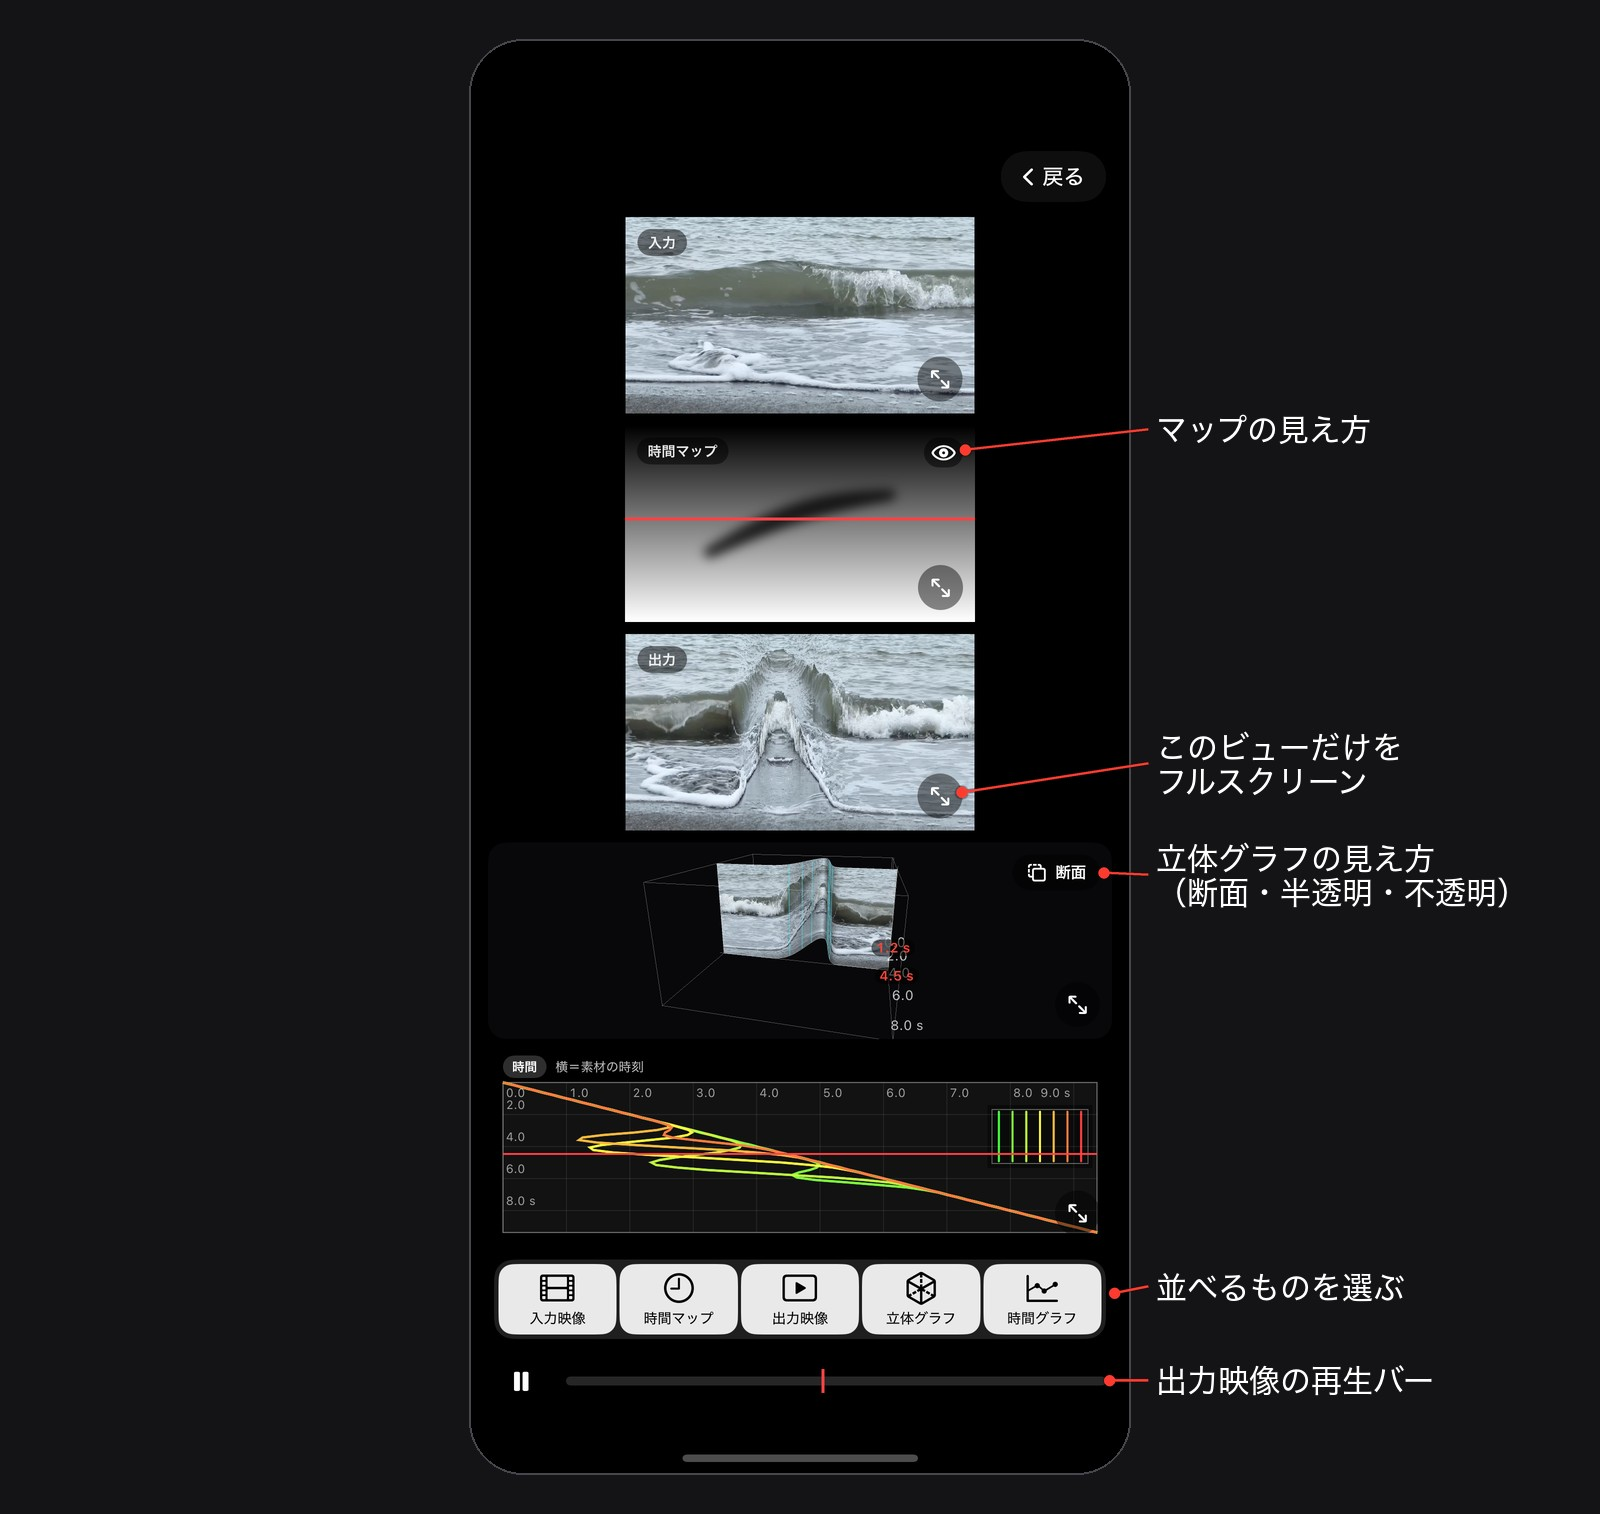
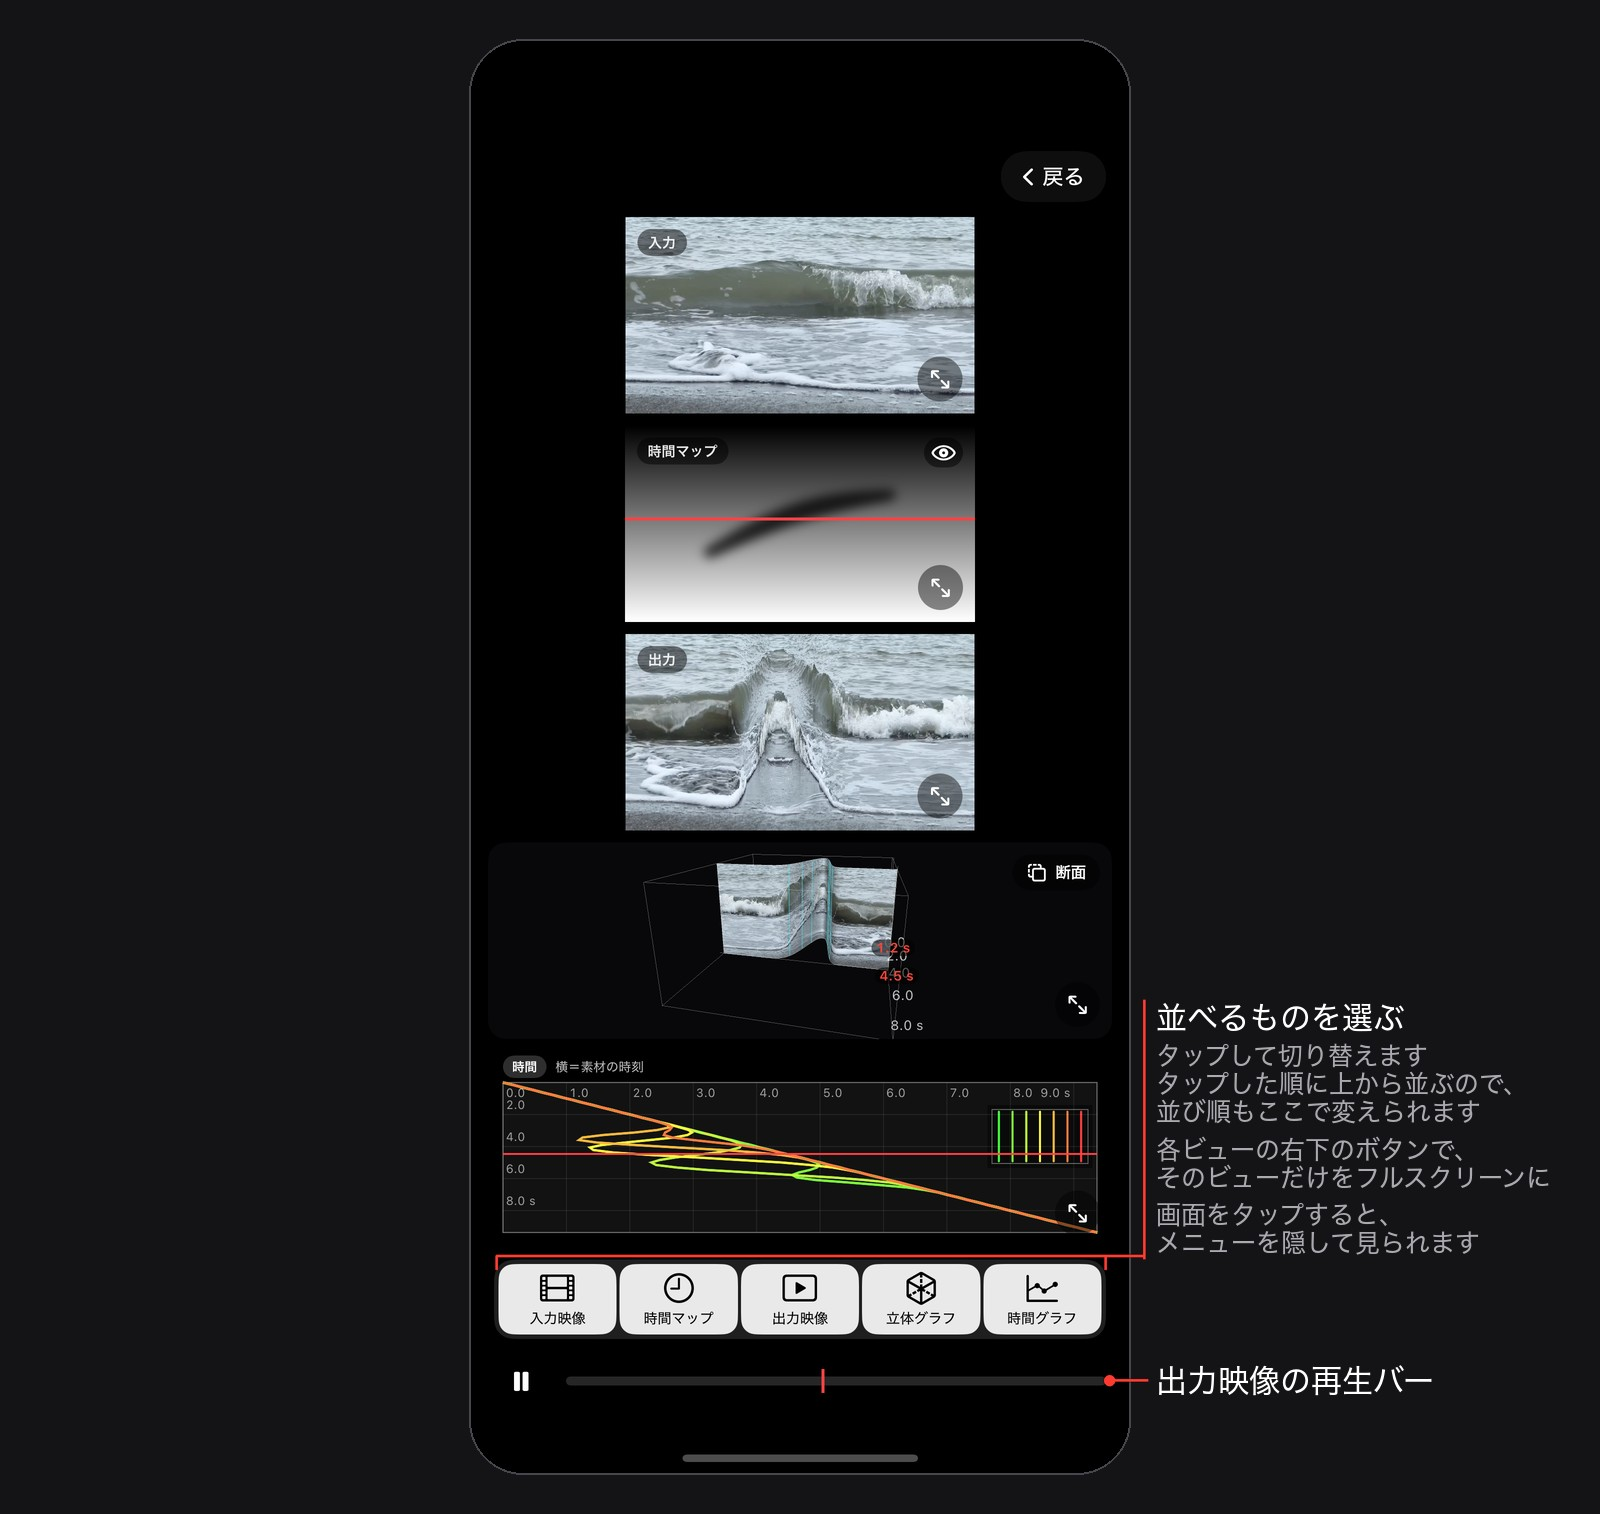
案内図: 編集画面の上の段を一覧にして選択肢を添える、モニタービューは並べるものの説明だけに（配信後に公開）

diff --git a/index.html b/index.html
@@ -108,7 +108,7 @@
   
 
 
-<figure class="guide"><a href="shots/guide/monitor_ja.jpg"><img src="shots/guide/monitor_ja.jpg" alt="モニタービューのボタンの名前を赤い線で示した図。入力映像、時間マップ、出力映像、立体グラフ、時間グラフをすべて並べている" loading="lazy"></a><figcaption>モニタービュー（押すと大きく開きます）</figcaption></figure>
+<figure class="guide"><a href="shots/guide/monitor_ja.jpg"><img src="shots/guide/monitor_ja.jpg" alt="モニタービューの図。入力映像、時間マップ、出力映像、立体グラフ、時間グラフをすべて並べ、下のメニューで並べるものを選ぶ説明を添えている" loading="lazy"></a><figcaption>モニタービュー（押すと大きく開きます）</figcaption></figure>
 <div class="gallery">
   <figure><img src="shots/v15/ja/input_full.png" alt="入力映像の全画面表示。下に読み込みの情報、使用範囲のバー、秒数が並ぶ" loading="lazy"><figcaption>入力の全画面。情報をタップすると読み込みの設定が開きます</figcaption></figure>
   <figure><img src="shots/v16/ja/volume.png" alt="出力の全画面で立体グラフをオンにしたところ。上に出力映像、下に素材の箱の中で斜めに傾いた面と秒数の目盛り" loading="lazy"><figcaption>立体グラフ。縦スリット×時間マップの「左→右」では、左ほど前の瞬間を映すので面が斜めに傾きます</figcaption></figure>
@@ -538,7 +538,7 @@ Pro Max and iPad) a button at the bottom right of each pane shows that one alone
 Output and the 3D plot in the editor opens it too, and <strong>Back</strong> returns to the editor. The Monitor view is for looking
 only: export from <strong>Export</strong> on the main screen.
 </p>
-<figure class="guide"><a href="shots/guide/monitor_en.jpg"><img src="shots/guide/monitor_en.jpg" alt="The Monitor view with its buttons named by red lines, showing all of the input video, the time map, the output video, the 3D plot and the time graph" loading="lazy"></a><figcaption>The Monitor view (tap to enlarge)</figcaption></figure>
+<figure class="guide"><a href="shots/guide/monitor_en.jpg"><img src="shots/guide/monitor_en.jpg" alt="The Monitor view showing all of the input video, the time map, the output video, the 3D plot and the time graph, with a note on choosing what to show from the menu below" loading="lazy"></a><figcaption>The Monitor view (tap to enlarge)</figcaption></figure>
 <div class="gallery">
   <figure><img src="shots/v15/en/input_full.png" alt="Full-screen Input with the loading information line, the range bar and the seconds in use" loading="lazy"><figcaption>Full-screen Input: tap the information line to open Video Loading</figcaption></figure>
 </div>
